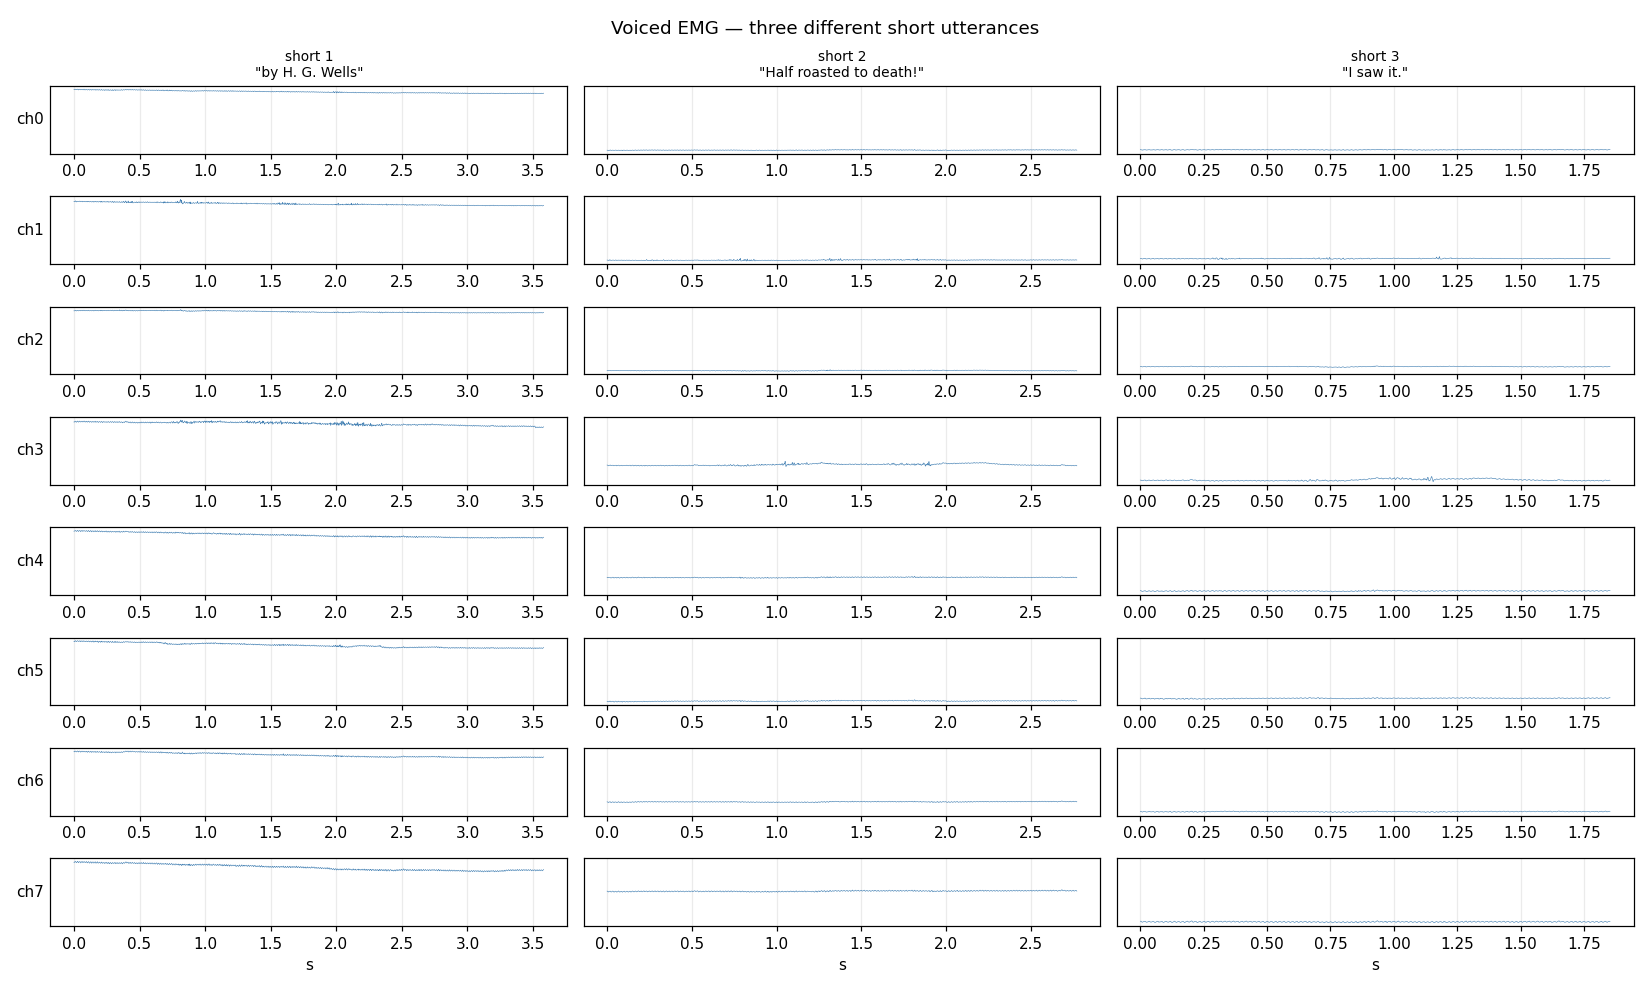
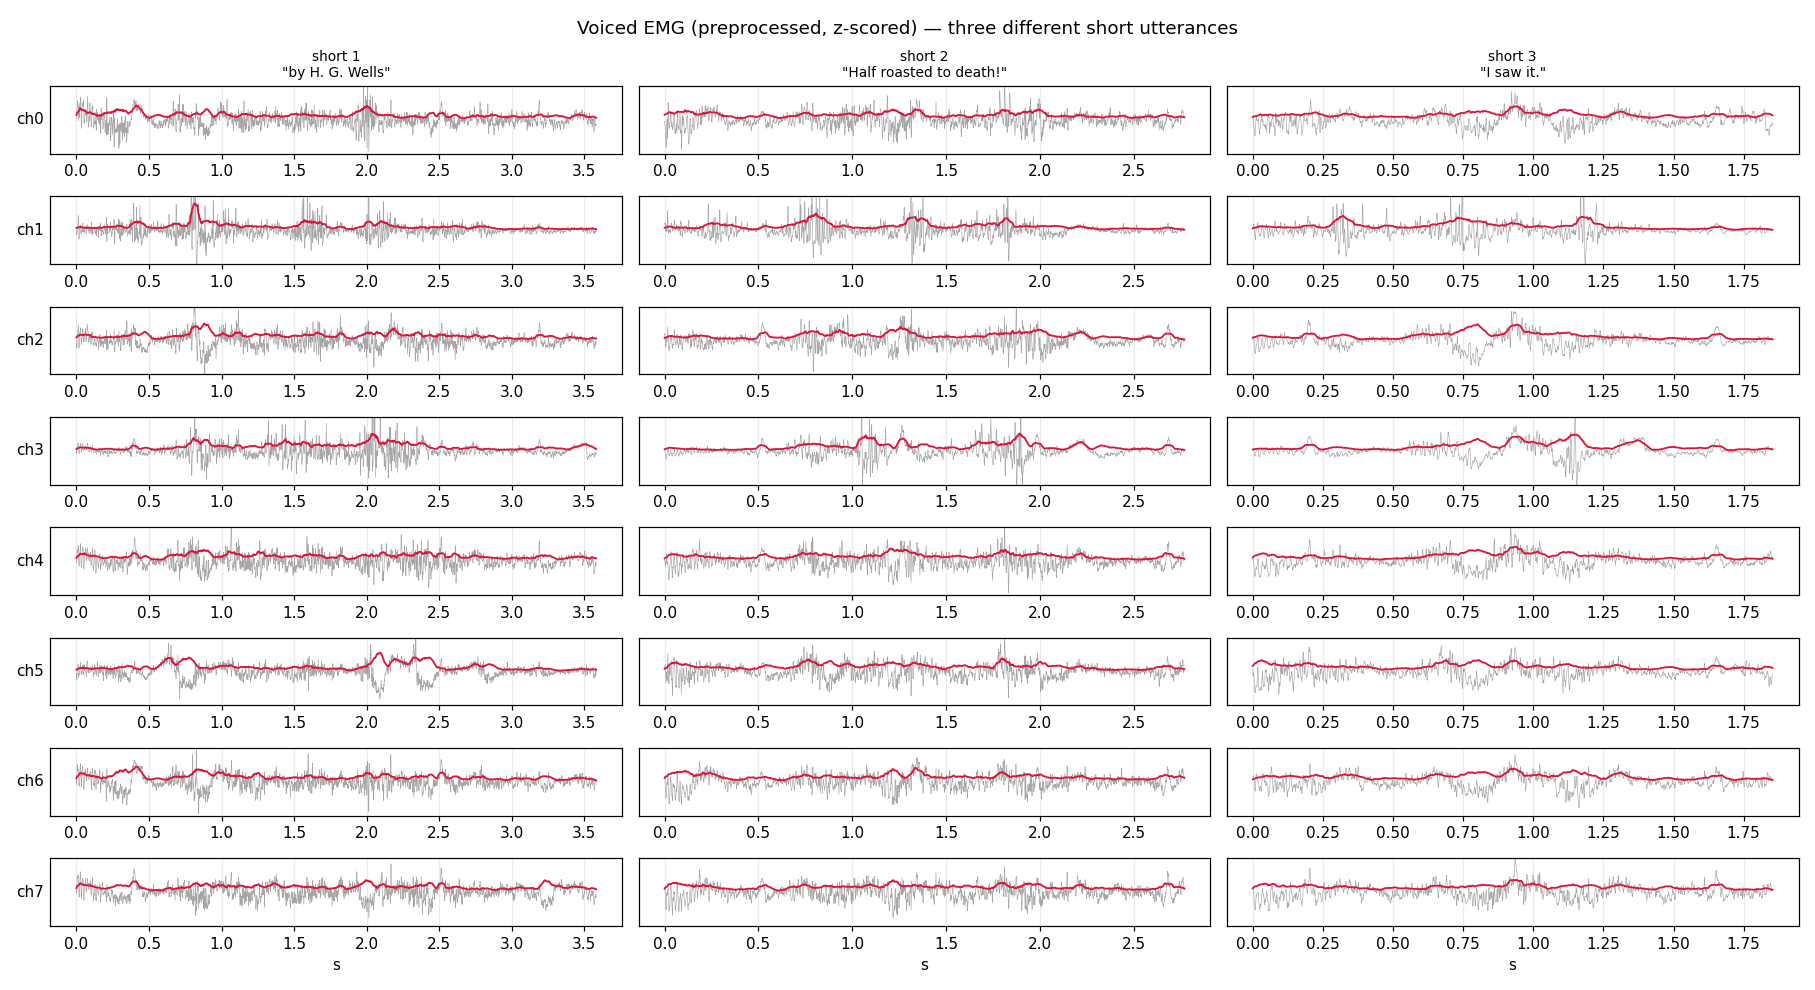
Fix voiced viz: notch+highpass preprocess, per-channel z-score

diff --git a/experiments/voiced_examples/viz_voiced_words.py b/experiments/voiced_examples/viz_voiced_words.py
@@ -1,83 +1,61 @@
-"""Visual: voiced EMG traces for a handful of utterances to build intuition.
+"""Visual: voiced EMG traces for a few utterances.
 
-Picks short/similar/different texts and draws all 8 channels stacked.
+Applies Gaddy-style preprocessing (notch 60 Hz harmonics + 2 Hz highpass)
+and z-scores per channel before plotting so speech activity is visible.
 """
 import os, glob, json
 import numpy as np
 import matplotlib.pyplot as plt
+from scipy import signal as sps
 
-OUT = 'analysis/voiced_examples'
+# Paths are resolved relative to where you run this from.
+DATA_ROOT = os.environ.get('KALAM_DATA', '/Users/fekrymostafa/Desktop/kalam/experiments/dataset')
+OUT = os.environ.get('KALAM_VISUALS', '/Users/fekrymostafa/Desktop/kalam/Project kalam/visuals/voiced_examples')
 os.makedirs(OUT, exist_ok=True)
 SR = 1000
 
-# ---- gather voiced items with short texts ----
-items = []
-for s in ['5-4', '5-5', '5-6', '5-10', '5-11', '5-8', '5-9']:
-    d = f'dataset/voiced_parallel_data/{s}'
-    for info in glob.glob(f'{d}/*_info.json'):
-        try:
-            text = json.load(open(info)).get('text', '').strip()
-        except Exception:
-            continue
-        if not text:
-            continue
-        idx = os.path.basename(info).replace('_info.json', '')
-        emg = f'{d}/{idx}_emg.npy'
-        if os.path.exists(emg):
-            items.append((text, emg, s))
+def preprocess(emg):
+    out = emg.astype(np.float32).copy()
+    for hz in [60, 120, 180, 240, 300, 360, 420]:
+        b, a = sps.iirnotch(hz, Q=30, fs=SR)
+        out = sps.filtfilt(b, a, out, axis=0)
+    b, a = sps.butter(4, 2.0, btype='high', fs=SR)
+    out = sps.filtfilt(b, a, out, axis=0)
+    return out.astype(np.float32)
 
-print(f'{len(items)} voiced items')
+def envelope(x, win=50):
+    return np.convolve(np.abs(x), np.ones(win)/win, mode='same')
 
-# Also check closed_vocab voiced — it has short dates/times
-for s in os.listdir('dataset/closed_vocab/voiced'):
-    d = f'dataset/closed_vocab/voiced/{s}'
-    if not os.path.isdir(d):
-        continue
-    for info in glob.glob(f'{d}/*_info.json'):
-        try:
-            text = json.load(open(info)).get('text', '').strip()
-        except Exception:
-            continue
-        if not text:
-            continue
-        idx = os.path.basename(info).replace('_info.json', '')
-        emg = f'{d}/{idx}_emg.npy'
-        if os.path.exists(emg):
-            items.append((text, emg, f'cv/{s}'))
-
-print(f'{len(items)} total (incl. closed_vocab)')
-
-short = [it for it in items if len(it[0].split()) <= 5]
-long_ = [it for it in items if 8 <= len(it[0].split()) <= 14]
-print(f'short (<=5 words): {len(short)}, medium (8-14): {len(long_)}')
-
-# ---- helper plots ----
-def plot_one(text, emg_path, fname, title_suffix=''):
-    emg = np.load(emg_path).astype(np.float32)
-    t = np.arange(emg.shape[0]) / SR
-    fig, axes = plt.subplots(8, 1, figsize=(13, 8), sharex=True)
-    colors = plt.cm.viridis(np.linspace(0.05, 0.85, 8))
-    for c in range(8):
-        axes[c].plot(t, emg[:, c], color=colors[c], lw=0.5)
-        axes[c].set_ylabel(f'ch{c}', rotation=0, ha='right', va='center')
-        axes[c].grid(alpha=0.25)
-        axes[c].set_yticks([])
-    axes[-1].set_xlabel('time (seconds)')
-    fig.suptitle(f'"{text}"{title_suffix}    [{emg.shape[0]/SR:.2f}s]', fontsize=11)
-    plt.tight_layout(); plt.savefig(fname, dpi=110); plt.close()
+def gather_items():
+    items = []
+    for s in ['5-4', '5-5', '5-6', '5-10', '5-11', '5-8', '5-9']:
+        d = f'{DATA_ROOT}/voiced_parallel_data/{s}'
+        for info in glob.glob(f'{d}/*_info.json'):
+            try:
+                text = json.load(open(info)).get('text', '').strip()
+            except Exception:
+                continue
+            if not text: continue
+            idx = os.path.basename(info).replace('_info.json', '')
+            emg = f'{d}/{idx}_emg.npy'
+            if os.path.exists(emg):
+                items.append((text, emg, s))
+    return items
 
 def plot_grid(triplets, fname, title):
-    """triplets: list of (label, text, emg_path). Plot 8 channels x N columns."""
     n = len(triplets)
-    fig, axes = plt.subplots(8, n, figsize=(5*n, 9), sharey='row')
+    fig, axes = plt.subplots(8, n, figsize=(5.5*n, 9))
     if n == 1:
         axes = axes.reshape(8, 1)
     for col, (label, text, emg_path) in enumerate(triplets):
-        emg = np.load(emg_path).astype(np.float32)
+        emg = preprocess(np.load(emg_path).astype(np.float32))
+        emg = (emg - emg.mean(0)) / (emg.std(0) + 1e-6)
         t = np.arange(emg.shape[0]) / SR
         for c in range(8):
             ax = axes[c, col]
-            ax.plot(t, emg[:, c], lw=0.4, color='steelblue')
+            ax.plot(t, emg[:, c], lw=0.4, color='gray', alpha=0.7)
+            ax.plot(t, envelope(emg[:, c], 50), lw=1.2, color='crimson')
+            ax.set_ylim(-5, 5)
             ax.grid(alpha=0.25)
             ax.set_yticks([])
             if col == 0:
@@ -87,75 +65,66 @@ def plot_grid(triplets, fname, title):
     fig.suptitle(title, fontsize=12)
     plt.tight_layout(); plt.savefig(fname, dpi=110); plt.close()
 
-# ---- 1. Three different short utterances side-by-side ----
-rng = np.random.default_rng(0)
-picks = []
-seen_texts = set()
-for it in short:
-    if it[0].lower() not in seen_texts:
-        picks.append(it); seen_texts.add(it[0].lower())
-    if len(picks) >= 3: break
-plot_grid([(f'short {i+1}', t, p) for i,(t,p,_) in enumerate(picks)],
-          f'{OUT}/01_three_short_utterances.png',
-          'Voiced EMG — three different short utterances')
-print('saved 01_three_short_utterances.png')
+def plot_single_envelope(text, emg_path, fname):
+    emg = preprocess(np.load(emg_path).astype(np.float32))
+    emg = (emg - emg.mean(0)) / (emg.std(0) + 1e-6)
+    t = np.arange(emg.shape[0]) / SR
+    fig, axes = plt.subplots(8, 1, figsize=(13, 9), sharex=True)
+    for c in range(8):
+        axes[c].plot(t, emg[:, c], color='lightgray', lw=0.4)
+        axes[c].plot(t, envelope(emg[:, c], 50), color='crimson', lw=1.0)
+        axes[c].set_ylim(-5, 5)
+        axes[c].grid(alpha=0.25)
+        axes[c].set_ylabel(f'ch{c}', rotation=0, ha='right', va='center')
+        axes[c].set_yticks([])
+    axes[-1].set_xlabel('time (s)')
+    fig.suptitle(f'Voiced EMG (preprocessed, z-scored) — "{text}"', fontsize=11)
+    plt.tight_layout(); plt.savefig(fname, dpi=110); plt.close()
 
-# ---- 2. Same text, two different sessions (does the same word look the same?) ----
-# Find a text spoken in 2 different sessions (closed_vocab is small, often repeats)
-text_to_paths = {}
-for text, p, s in items:
-    text_to_paths.setdefault(text.lower(), []).append((text, p, s))
-repeated = [(t, lst) for t, lst in text_to_paths.items() if len(lst) >= 2 and len(t.split()) <= 5]
-if repeated:
-    text, lst = repeated[0]
-    plot_grid([(f'session {lst[0][2]}', lst[0][0], lst[0][1]),
-               (f'session {lst[1][2]}', lst[1][0], lst[1][1])],
-              f'{OUT}/02_same_text_two_sessions.png',
-              f'Voiced EMG — same words spoken on different days')
-    print('saved 02_same_text_two_sessions.png')
+if __name__ == '__main__':
+    items = gather_items()
+    print(f'{len(items)} voiced items')
+    short = [it for it in items if 2 <= len(it[0].split()) <= 5]
+    long_ = [it for it in items if 8 <= len(it[0].split()) <= 14]
 
-# ---- 3. Long-vs-short side-by-side (intuition: longer = more sustained activity) ----
-short_pick = next(it for it in short if len(it[0]) > 5)
-long_pick = next(it for it in long_)
-plot_grid([('SHORT', short_pick[0], short_pick[1]),
-           ('LONG',  long_pick[0],  long_pick[1])],
-          f'{OUT}/03_short_vs_long.png',
-          'Voiced EMG — short utterance vs long utterance')
-print('saved 03_short_vs_long.png')
+    seen = set(); picks = []
+    for it in short:
+        if it[0].lower() not in seen:
+            picks.append(it); seen.add(it[0].lower())
+        if len(picks) == 3: break
 
-# ---- 4. Phonetically different short utterances ----
-# Try to pick one heavy on lip closures (b/p/m) vs one heavy on tongue/throat (t/k/g)
-def has_phonemes(text, chars):
-    t = text.lower()
-    return sum(t.count(c) for c in chars)
+    plot_grid([(f'short {i+1}', t, p) for i,(t,p,_) in enumerate(picks)],
+              f'{OUT}/01_three_short_utterances.png',
+              'Voiced EMG (preprocessed, z-scored) — three different short utterances')
+    print('saved 01')
 
-lippy = sorted(short, key=lambda x: -has_phonemes(x[0], 'bpmf'))[:5]
-tonguey = sorted(short, key=lambda x: -has_phonemes(x[0], 'tkg'))[:5]
-if lippy and tonguey:
+    text_to_paths = {}
+    for text, p, s in items:
+        text_to_paths.setdefault(text.lower(), []).append((text, p, s))
+    repeated = [(t, lst) for t, lst in text_to_paths.items()
+                if len(lst) >= 2 and 2 <= len(t.split()) <= 6]
+    if repeated:
+        text, lst = repeated[0]
+        plot_grid([(f'session {lst[0][2]}', lst[0][0], lst[0][1]),
+                   (f'session {lst[1][2]}', lst[1][0], lst[1][1])],
+                  f'{OUT}/02_same_text_two_sessions.png',
+                  'Voiced EMG — same words spoken on different days')
+        print('saved 02')
+
+    plot_grid([('SHORT', picks[0][0], picks[0][1]),
+               ('LONG',  long_[0][0],  long_[0][1])],
+              f'{OUT}/03_short_vs_long.png',
+              'Voiced EMG — short utterance vs long utterance')
+    print('saved 03')
+
+    def has(text, chars): return sum(text.lower().count(c) for c in chars)
+    lippy = sorted(short, key=lambda x: -has(x[0], 'bpmf'))
+    tonguey = sorted(short, key=lambda x: -has(x[0], 'tkg'))
     plot_grid([('"lippy" (b/p/m/f)', lippy[0][0], lippy[0][1]),
                ('"tonguey" (t/k/g)', tonguey[0][0], tonguey[0][1])],
               f'{OUT}/04_lippy_vs_tonguey.png',
               'Voiced EMG — phonetically different short utterances')
-    print('saved 04_lippy_vs_tonguey.png')
+    print('saved 04')
 
-# ---- 5. Single closer-look plot of one utterance with envelope ----
-text_pick, emg_path_pick, _ = picks[0]
-emg = np.load(emg_path_pick).astype(np.float32)
-t = np.arange(emg.shape[0]) / SR
-fig, axes = plt.subplots(8, 1, figsize=(13, 9), sharex=True)
-for c in range(8):
-    raw = emg[:, c]
-    # smooth envelope: rectify + 50ms moving avg
-    env = np.convolve(np.abs(raw), np.ones(50)/50, mode='same')
-    axes[c].plot(t, raw, color='lightgray', lw=0.4, label='raw')
-    axes[c].plot(t, env, color='crimson', lw=1.0, label='envelope (50ms)')
-    axes[c].grid(alpha=0.25)
-    axes[c].set_ylabel(f'ch{c}', rotation=0, ha='right', va='center')
-    axes[c].set_yticks([])
-axes[0].legend(loc='upper right', fontsize=8)
-axes[-1].set_xlabel('time (s)')
-fig.suptitle(f'Voiced EMG with rectified envelope — "{text_pick}"', fontsize=11)
-plt.tight_layout(); plt.savefig(f'{OUT}/05_envelope_overlay.png', dpi=110); plt.close()
-print('saved 05_envelope_overlay.png')
-
-print('\nAll plots in', OUT)
+    plot_single_envelope(picks[0][0], picks[0][1], f'{OUT}/05_envelope_overlay.png')
+    print('saved 05')
